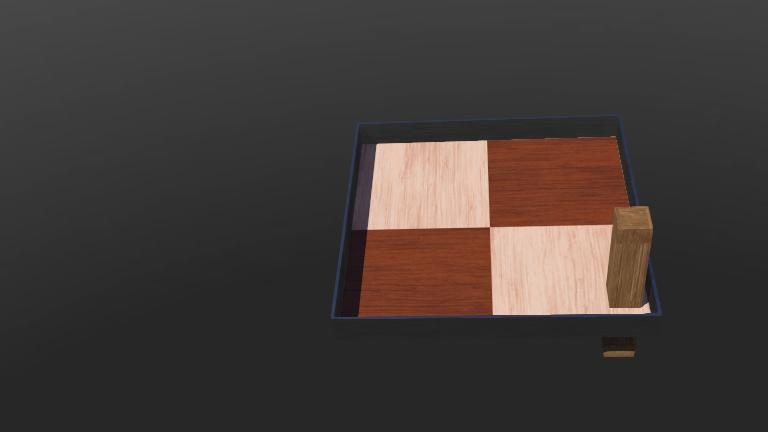
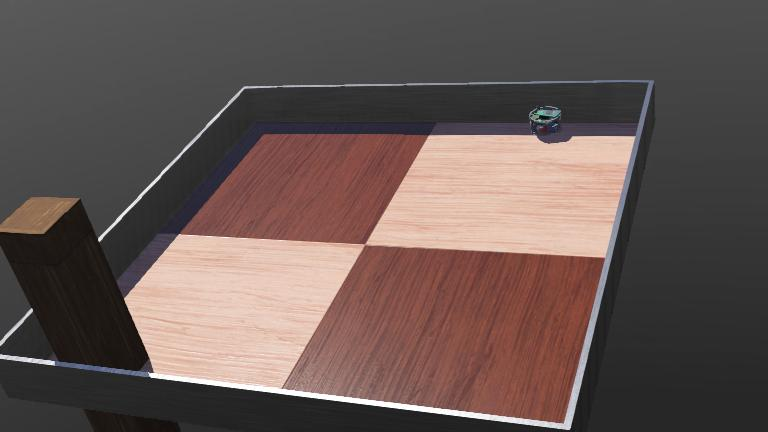
Add simple robot epuk and controller

diff --git a/controllers/epuck_go_forward/epuck_go_forward.cpp b/controllers/epuck_go_forward/epuck_go_forward.cpp
@@ -1,0 +1,54 @@
+// File:          epuck_go_forward.cpp
+// Date:
+// Description:
+// Author:
+// Modifications:
+
+// You may need to add webots include files such as
+// <webots/DistanceSensor.hpp>, <webots/Motor.hpp>, etc.
+// and/or to add some other includes
+#include <webots/Robot.hpp>
+#include <webots/Motor.hpp>
+
+
+#define TIME_STEP 64
+#define MAX_SPEED 6.28
+// All the webots classes are defined in the "webots" namespace
+using namespace webots;
+
+// This is the main program of your controller.
+// It creates an instance of your Robot instance, launches its
+// function(s) and destroys it at the end of the execution.
+// Note that only one instance of Robot should be created in
+// a controller program.
+// The arguments of the main function can be specified by the
+// "controllerArgs" field of the Robot node
+int main(int argc, char **argv) {
+  // create the Robot instance.
+  Robot *robot = new Robot();
+
+  // get the time step of the current world.
+  int timeStep = (int)robot->getBasicTimeStep();
+
+  // You should insert a getDevice-like function in order to get the
+  // instance of a device of the robot. Something like:
+  //  Motor *motor = robot->getMotor("motorname");
+  //  DistanceSensor *ds = robot->getDistanceSensor("dsname");
+  //  ds->enable(timeStep);
+  
+  Motor *leftMotor = robot->getMotor("left wheel motor");
+  Motor *rightMotor = robot->getMotor("right wheel motor");
+  
+  
+  leftMotor->setPosition(INFINITY);
+  rightMotor->setPosition(INFINITY);
+  
+  leftMotor->setVelocity(0.1*MAX_SPEED);
+  leftMotor->setVelocity(0.1*MAX_SPEED);
+  
+  
+// Enter here exit cleanup code.
+
+  delete robot;
+  return 0;
+}
